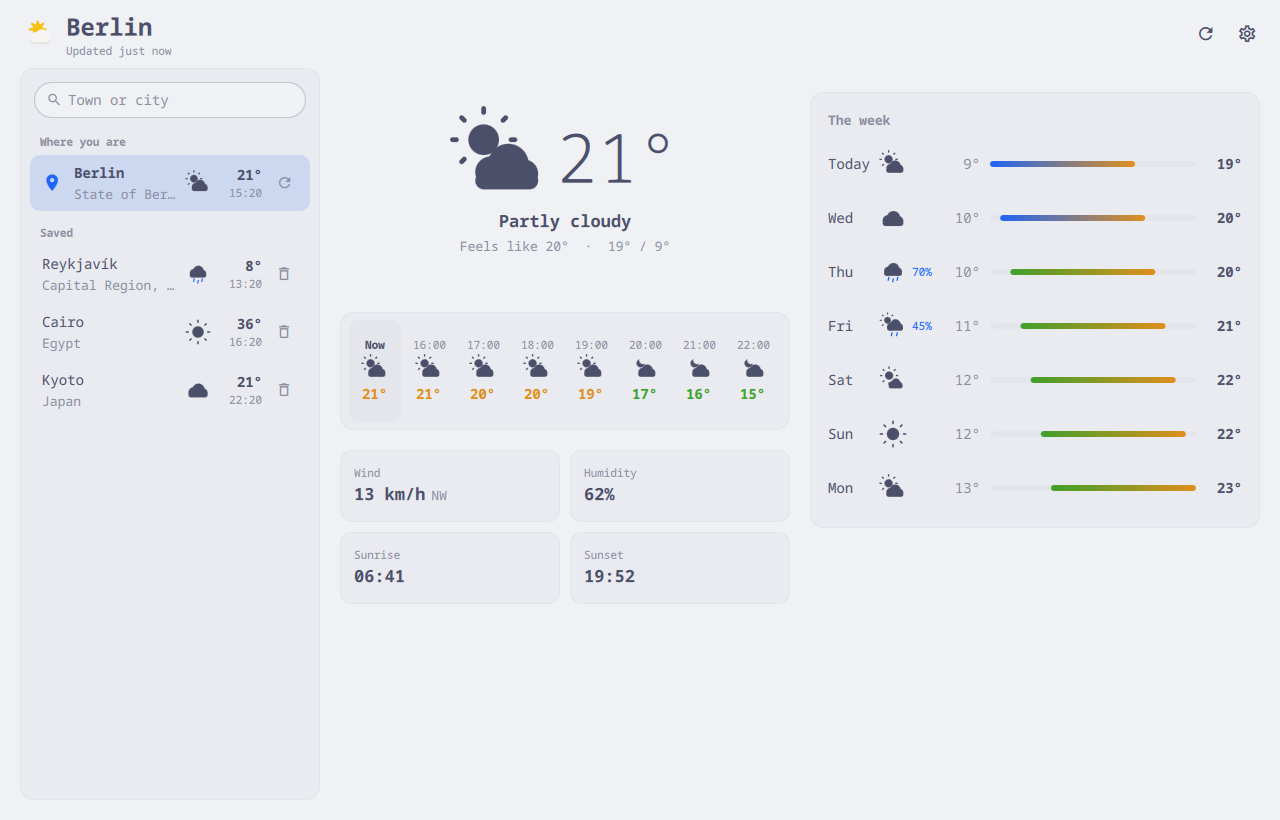
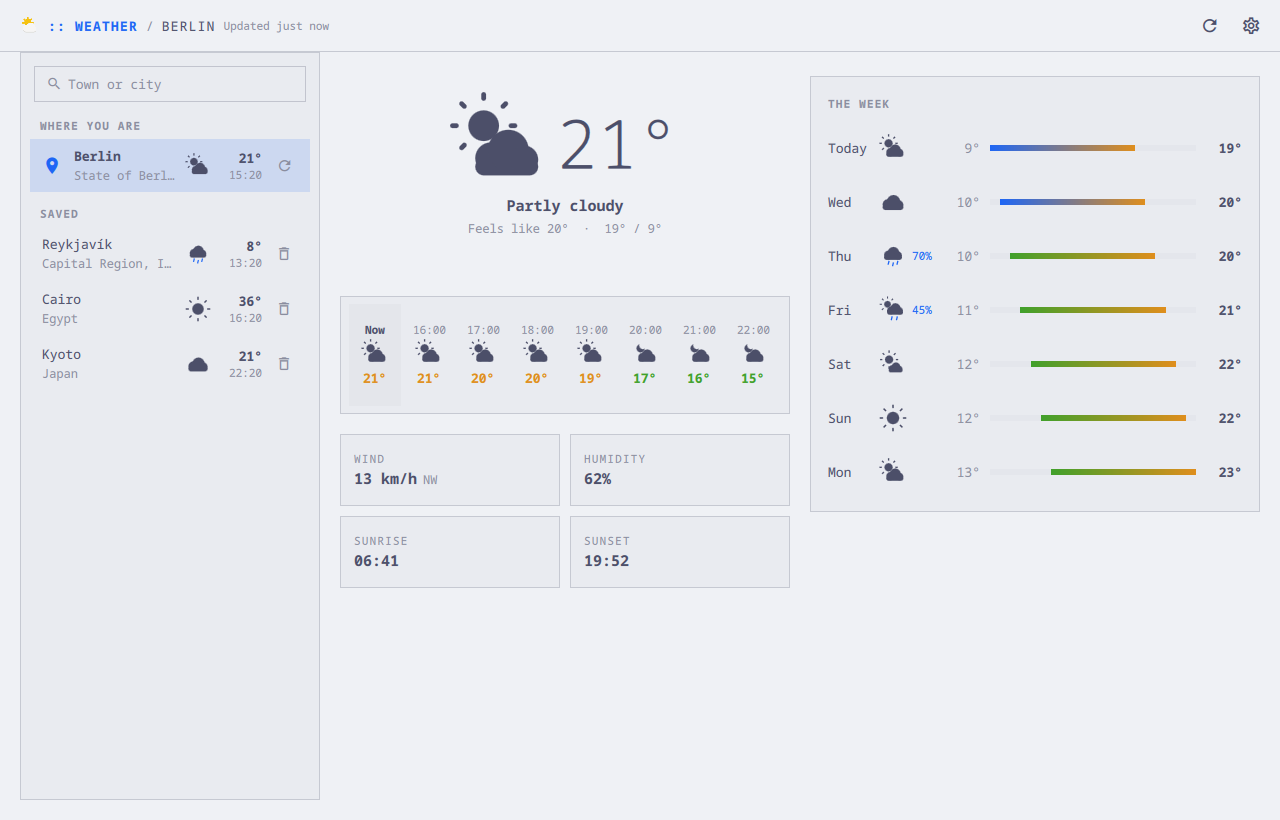
Weather in Omarchy's look: labels in capitals, square temperature bars
The places list's 'Where you are' and 'Saved', and the wind, humidity and
sun tiles, are labelled in small capitals as Omarchy labels a group, and the
week's temperature bars follow the theme's corners -- square on Omarchy.
The sky glyphs stay round: a sun is a disc.

diff --git a/apps/weather/ForecastView.qml b/apps/weather/ForecastView.qml
@@ -101,7 +101,7 @@ Flickable {
           color: root.app.ui.text
           font.family: root.app.ui.font
           font.pixelSize: root.app.ui.fs.lg
-          font.weight: Font.DemiBold
+          font.weight: Font.Bold
         }
         Text {
           width: parent.width
@@ -120,10 +120,10 @@ Flickable {
       width: parent.width
       height: 118
       visible: root.app.hours.length > 0
-      radius: root.app.ui.radius + 4
+      radius: root.app.ui.radius
       color: root.app.ui.surface
       border.width: 1
-      border.color: root.app.ui.divider
+      border.color: root.app.ui.line
 
       Flickable {
         id: strip
@@ -167,7 +167,7 @@ Flickable {
                   color: hour.isNow ? root.app.ui.text : root.app.ui.muted
                   font.family: root.app.ui.font
                   font.pixelSize: root.app.ui.fs.xs
-                  font.weight: hour.isNow ? Font.DemiBold : Font.Normal
+                  font.weight: hour.isNow ? Font.Bold : Font.Normal
                 }
                 Sky {
                   anchors.horizontalCenter: parent.horizontalCenter
@@ -184,7 +184,7 @@ Flickable {
                   color: root.app.tempColour(hour.modelData.temp)
                   font.family: root.app.ui.font
                   font.pixelSize: root.app.ui.fs.md
-                  font.weight: Font.DemiBold
+                  font.weight: Font.Bold
                 }
                 // The chance of rain, only when there is one worth printing.
                 Text {
@@ -216,10 +216,10 @@ Flickable {
           required property var modelData
           width: (left.width - 10) / 2
           height: 72
-          radius: root.app.ui.radius + 2
+          radius: root.app.ui.radius
           color: root.app.ui.surface
           border.width: 1
-          border.color: root.app.ui.divider
+          border.color: root.app.ui.line
           Column {
             x: 14
             anchors.verticalCenter: parent.verticalCenter
@@ -230,6 +230,8 @@ Flickable {
               color: root.app.ui.muted
               font.family: root.app.ui.font
               font.pixelSize: root.app.ui.fs.xs
+              font.capitalization: Font.AllUppercase
+              font.letterSpacing: root.app.ui.tracking
             }
             Row {
               spacing: 6
@@ -239,7 +241,7 @@ Flickable {
                 color: root.app.ui.text
                 font.family: root.app.ui.font
                 font.pixelSize: root.app.ui.fs.lg
-                font.weight: Font.DemiBold
+                font.weight: Font.Bold
               }
               Text {
                 anchors.baseline: tileValue.baseline
@@ -332,14 +334,14 @@ Flickable {
             height: 6
             Rectangle {
               anchors.fill: parent
-              radius: 3
+              radius: root.app.ui.round(height)
               color: root.app.ui.well
             }
             Rectangle {
               x: day.fraction.from * track.width
               width: Math.max(6, (day.fraction.to - day.fraction.from) * track.width)
               height: parent.height
-              radius: 3
+              radius: root.app.ui.round(height)
               gradient: Gradient {
                 orientation: Gradient.Horizontal
                 GradientStop { position: 0.0; color: root.app.tempColour(day.modelData.low) }
@@ -357,7 +359,7 @@ Flickable {
             color: root.app.ui.text
             font.family: root.app.ui.font
             font.pixelSize: root.app.ui.fs.md
-            font.weight: Font.DemiBold
+            font.weight: Font.Bold
           }
         }
       }

diff --git a/apps/weather/PlacesView.qml b/apps/weather/PlacesView.qml
@@ -103,7 +103,9 @@ Item {
         color: root.app.ui.muted
         font.family: root.app.ui.font
         font.pixelSize: root.app.ui.fs.xs
-        font.weight: Font.DemiBold
+        font.weight: Font.Bold
+        font.capitalization: Font.AllUppercase
+        font.letterSpacing: root.app.ui.tracking
       }
       Repeater {
         model: !root.searching && root.app.locate ? [{ here: true }] : []
@@ -120,7 +122,9 @@ Item {
         color: root.app.ui.muted
         font.family: root.app.ui.font
         font.pixelSize: root.app.ui.fs.xs
-        font.weight: Font.DemiBold
+        font.weight: Font.Bold
+        font.capitalization: Font.AllUppercase
+        font.letterSpacing: root.app.ui.tracking
       }
       Repeater {
         model: root.searching ? [] : root.app.places
@@ -176,7 +180,7 @@ Item {
           color: root.app.ui.text
           font.family: root.app.ui.font
           font.pixelSize: root.app.ui.fs.md
-          font.weight: Font.DemiBold
+          font.weight: Font.Bold
         }
         Text {
           width: parent.width

diff --git a/apps/weather/Panel.qml b/apps/weather/Panel.qml
@@ -670,10 +670,10 @@ App {
     anchors.bottom: parent.bottom
     anchors.leftMargin: root.ui.gutter
     anchors.bottomMargin: root.ui.gutter
-    radius: root.ui.radius + 4
+    radius: root.ui.radius
     color: root.ui.surface
     border.width: 1
-    border.color: root.ui.divider
+    border.color: root.ui.line
     PlacesView {
       anchors.fill: parent
       anchors.margins: 4
